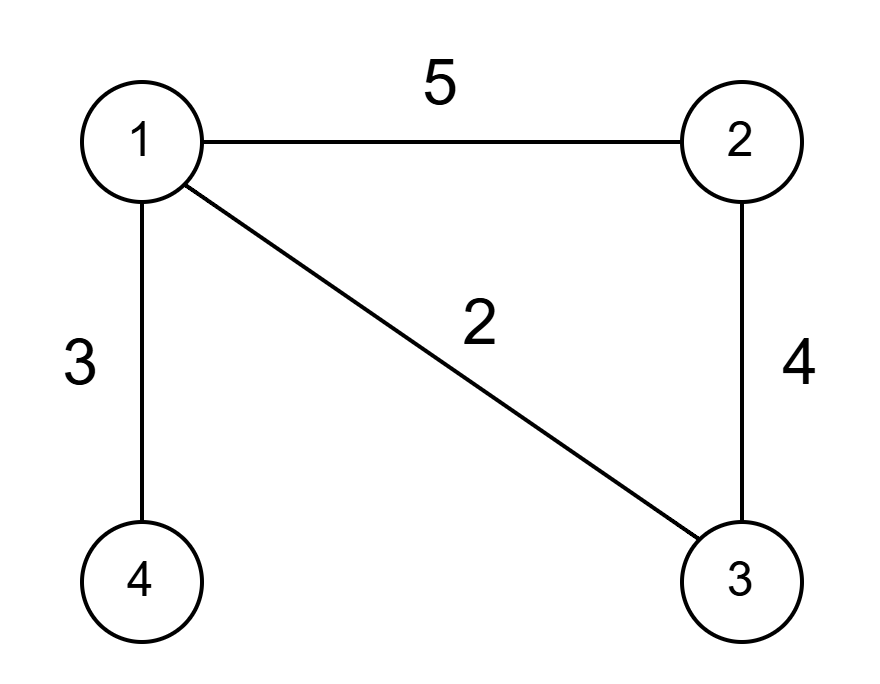
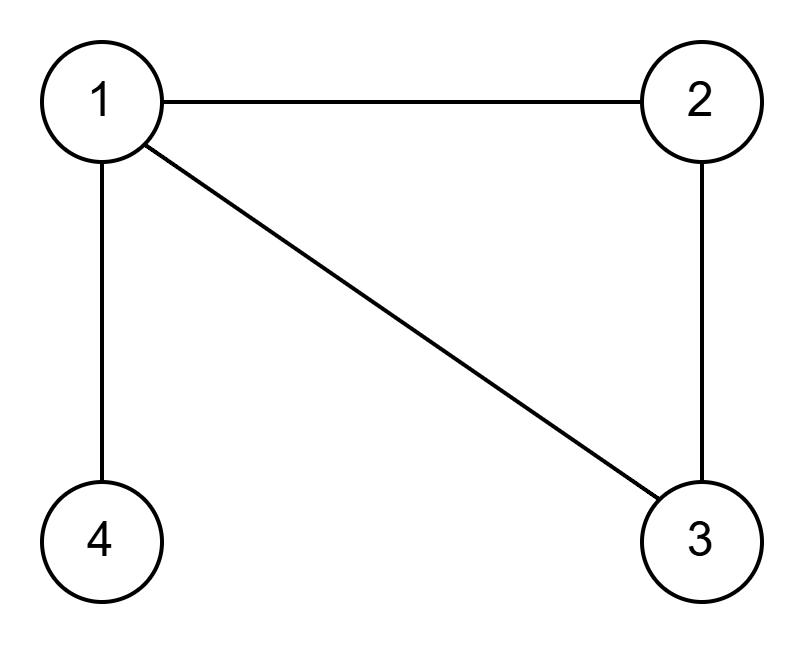
디렉터리 구조 수정 및 DFS BFS 포스팅

Changed region(s): [[0.0311, 0.0617, 0.9639, 0.9568]]

diff --git a/_posts/algorithm/24-12-09-dfs-bfs.md b/_posts/algorithm/24-12-09-dfs-bfs.md
@@ -1,0 +1,331 @@
+---
+title: DFS, BFS
+
+categories:
+  - Algorithm
+
+toc: true
+toc_sticky: true
+published: true
+ 
+date: 2024-12-09
+---
+
+배열이나 [그래프 또는 트리](https://sehako.github.io/data%20structure/graph/)를 탐색하고자 할 때 재귀함수나 큐를 이용한다. 재귀함수를 이용한 탐색 방법을 깊이 우선 탐색(DFS)라고 하고, 큐를 이용한 탐색 방법을 너비 우선 탐색(BFS)라고 한다. 배열과 트리 탐색에 관한 상황에 대해서 DFS와 BFS를 간단하게 구현해보고 차이점을 알아보자.
+
+- N x N구조를 가진 2차원 배열에서 1의 총 개수를 출력
+
+```java
+5
+1 0 1 0 0
+1 1 1 0 0
+0 1 0 0 0
+0 0 0 1 1
+0 0 0 1 0
+```
+
+**입력 코드**
+
+```java
+import java.util.*;
+import java.io.*;
+
+public class Main {
+	static int N, answer;
+	// 배열의 값을 저장할 용도
+	static int[][] arr;
+	// 이미 방문한 곳은 더 이상 방문하지 않기 위해 boolean 배열 사용
+	static boolean[][] check;
+	
+	static int[] dr = {-1, 0, 1, 0};
+	static int[] dc = {0, 1, 0, -1};
+	
+  public static void main(String[] args) throws IOException {
+    BufferedReader br = new BufferedReader(new InputStreamReader(System.in));
+    StringTokenizer st;
+    
+    N = Integer.parseInt(br.readLine());
+    arr = new int[N][N];
+    check = new boolean[N][N];
+
+    for (int i = 0; i < N; i++) {
+    	st = new StringTokenizer(br.readLine(), " ");
+    	for (int j = 0; j < N; j++) {
+    		arr[i][j] = Integer.parseInt(st.nextToken());
+    	}
+    }
+  }
+}
+```
+
+- 트리 탐색
+
+<p align="center">
+  <img src="/assets/images/dfs-bfs-01.png" alt="tree" width="30%" />
+</p>
+
+```java
+7
+6
+1 2
+1 3
+2 4
+2 5
+3 6
+3 7
+```
+
+**입력 코드**
+
+```java
+public class Main {
+	static Node[] tree;
+	
+  public static void main(String[] args) throws IOException {
+    BufferedReader br = new BufferedReader(new InputStreamReader(System.in));
+    StringTokenizer st;
+    
+    int N = Integer.parseInt(br.readLine());
+    int E = Integer.parseInt(br.readLine());
+    
+    tree = new Node[N + 1];
+    for (int i = 0; i < E; i++) {
+    	st = new StringTokenizer(br.readLine(), " ");
+    	int from = Integer.parseInt(st.nextToken());
+    	int to = Integer.parseInt(st.nextToken());
+    	
+    	tree[from] = new Node(to, tree[from]);
+    }
+  }
+}
+
+class Node {
+	int to;
+	Node next;
+	
+	public Node(int to, Node next) {
+		this.to = to;
+		this.next = next;
+	}
+}
+```
+
+# DFS
+
+탐색이 가능한 곳까지 탐색을 하고, 더 이상 탐색이 불가능하면 탐색이 다시 가능한 분기까지 복귀하여 재탐색한다는 것을 의미한다. 따라서 일반적으로 재귀호출을 이용하여 구현을 한다.
+
+### 배열 탐색
+
+입력은 위의 입력 코드를 참고하자. 
+
+```java
+public class Main {
+  public static void main(String[] args) throws IOException 
+      for (int i = 0; i < N; i++) {
+      	for (int j = 0; j < N; j++) {
+      		if (arr[i][j] == 1 && !check[i][j]) {
+      			dfs(new int[] {i, j});
+      		}
+      	}
+      }
+      
+      System.out.println(answer);
+  }
+    
+  static void dfs(int[] pos) {
+  	answer++;
+  	check[pos[0]][pos[1]] = true;
+  	for (int i = 0; i < 4; i++) {
+  		int nr = pos[0] + dr[i];
+  		int nc = pos[0] + dc[i];
+  		
+  		// 범위를 벗어났음을 확인
+  		if (nr < 0 || nc < 0 || nr >= N || nc >= N) continue;
+  		if (check[nr][nc] || arr[nr][nc] != 1) continue;
+  		dfs(new int[] {nr, nc});
+		}
+  }
+}
+```
+
+### 트리 탐색
+
+```java
+public static void main(String[] args) throws IOException {
+	dfs(1);
+}
+static void dfs(int cur) {
+	for (Node node = tree[cur]; node != null; node = node.next) {
+		dfs(node.to);
+	}
+}
+```
+
+**순회 구현**
+
+DFS를 이용하면 순회 구현을 편리하게 할 수 있다. 이때는 연결 리스트 그래프가 아닌 인접 리스트나 인접 행렬을 이용하면 구현하기 쉽다. 코드를 통해 전위순회, 중위순회, 후위순회를 구현해보자.
+
+```java
+public class Main {
+	static List<Integer>[] tree;
+	
+  public static void main(String[] args) throws IOException {
+    BufferedReader br = new BufferedReader(new InputStreamReader(System.in));
+    StringTokenizer st;
+    
+    int N = Integer.parseInt(br.readLine());
+    int E = Integer.parseInt(br.readLine());
+    
+    tree = new List[N + 1];
+    for (int i = 1; i <= N; i++) tree[i] = new ArrayList<>();
+    
+    for (int i = 0; i < E; i++) {
+    	st = new StringTokenizer(br.readLine(), " ");
+    	int from = Integer.parseInt(st.nextToken());
+    	int to = Integer.parseInt(st.nextToken());
+    	
+    	tree[from].add(to);
+    }
+    
+    dfs(1);
+  }
+  
+  static void dfs(int cur) {
+	  // 전위 순회 (현재 노드 방문 → 왼쪽 자식 방문 → 오른쪽 자식 방문)
+  	System.out.print(cur + " ");
+  	for (int next : tree[cur]) {
+  		dfs(next);
+  	}
+  	// 후위 순회 (왼쪽 자식 방문 → 오른쪽 자식 방문 → 현재 노드 방문)
+  	// System.out.print(cur + " ");
+  }
+}
+```
+
+중위 순회는 왼쪽 하위 노드를 방문하고, 현재 노드를 방문한 다음에 오른쪽 하위 노드를 방문해야 하므로 추가적인 코드 작성이 필요하다.
+
+```java
+// 중위 순회 (왼쪽 자식 방문 → 현재 노드 방문 → 오른쪽 자식 방문)
+static void dfs(int cur) {
+  if (cur == 0) return;
+
+  List<Integer> children = tree[cur];
+  int mid = children.size() / 2; // 중간 인덱스 계산
+
+  // 왼쪽 절반의 자식 방문
+  for (int i = 0; i < mid; i++) {
+    dfs(children.get(i));
+  }
+
+  // 현재 노드 방문
+  System.out.print(cur + " ");
+
+  // 오른쪽 절반의 자식 방문
+  for (int i = mid; i < children.size(); i++) {
+    dfs(children.get(i));
+  }
+}
+
+```
+
+# BFS
+
+현재 위치에서 모든 것을 탐색할 수 있는 모든 곳을 탐색해나가며 점점 넓혀가는 방식이다.
+
+### 배열 탐색
+
+```java
+public class Main {
+  public static void main(String[] args) throws IOException 
+      for (int i = 0; i < N; i++) {
+      	for (int j = 0; j < N; j++) {
+      		if (arr[i][j] == 1 && !check[i][j]) {
+      			bfs(new int[] {i, j});
+      		}
+      	}
+      }
+      
+      System.out.println(answer);
+  }
+  static void bfs(int[] pos) {
+  	Queue<int[]> queue = new ArrayDeque<>();
+  	queue.offer(pos);
+  	// 큐에 요소가 없을 때 까지 반복
+  	while (!queue.isEmpty()) {
+  		answer++;
+  		int[] cur = queue.poll();
+  		check[cur[0]][cur[1]] = true;
+  		
+  		for (int i = 0; i < 4; i++) {
+  			int nr = cur[0] + dr[i];
+  			int nc = cur[1] + dc[i];
+  			
+    		if (nr < 0 || nc < 0 || nr >= N || nc >= N) continue;
+    		if (check[nr][nc] || arr[nr][nc] != 1) continue;
+    		queue.offer(new int[] {nr, nc});
+  		}
+  	}
+  }
+}
+```
+
+### 트리 탐색
+
+```java
+public static void main(String[] args) throws IOException {
+	bfs(1);
+}
+static void bfs(int start) {
+	Queue<Integer> queue = new ArrayDeque<>();
+	queue.offer(start);
+	
+	while (!queue.isEmpty()) {
+		int cur = queue.poll();
+		
+		for (Node node = tree[cur]; node != null; node = node.next) {
+			queue.offer(node.to);
+		}
+	}
+}
+```
+
+# DFS vs BFS
+
+그렇다면 DFS와 BFS의 차이는 정확하게 어떤 것이 있을까? 우선 표를 통해 살펴보자.
+
+![ChatGPT](/assets/images/dfs-bfs-02.png)
+
+ChatGPT
+
+탐색 순서 또한 다르다. 아래 트리를 DFS와 BFS로 탐색해보자.
+
+<p align="center">
+  <img src="/assets/images/dfs-bfs-01.png" alt="tree" width="30%" />
+</p>
+
+DFS에서는 탐색이 가능한 노드를 우선적으로 끝까지 탐색한다. 따라서 그래프 또는 트리 구성에 따라서 다르겠지만 왼쪽 하위 노드를 향해 탐색한다고 가정한다면 다음과 같다.
+
+```
+1 → 2 → 4 → 5 → 3 → 6 → 7
+```
+
+BFS에서는 현재 노드에서 탐색이 가능한 모든 노드를 탐색한 후 다음 깊이로 탐색을 이어나간다는 특징이 있다. 따라서 다음과 같은 탐색 순서를 가진다.
+
+```
+1 → 2 → 3 → 4 → 5 → 6 → 7
+```
+
+이때 한 가지 주의해야 할 점은 BFS로는 해결 가능한 문제가 문제의 제한 시간 등의 이유로 DFS로는 해결하지 못하거나 추가적인 처리가 필요한 경우가 존재한다. 가령 다음 입력에서 1의 개수를 출력한다고 가정해보자.
+
+```
+1 0 0
+1 1 1
+0 1 0
+```
+
+이때 `(0, 0)` 에서 DFS로 탐색을 한다고 가정하면 `(2, 1)` 또는 `(1, 2)`를 방문하지 않아 4가 출력될 수 있다. 하지만 BFS로 탐색을 하면 현재 위치 또는 노드에서 자신이 방문할 수 있는 모든 노드를 탐색하므로 그럴 일이 없다. 
+
+---
+
+DFS와 BFS는 그래프 탐색의 기본적인 알고리즘으로, 다양한 심화 알고리즘을 이해하는 데 중요한 기초가 된다. 이 두 알고리즘을 잘 이해하면, 트리나 그래프와 관련된 더 복잡한 문제들을 해결할 때 그 기반을 활용할 수 있다.  
+예를 들어, DFS는 백트래킹이나 최단 경로 탐색 등의 문제에서 자주 사용되고, BFS는 최단 경로 문제(단방향 그래프에서)나 네트워크 흐름 문제 등에서 중요한 역할을 한다. 또한, DFS와 BFS는 알고리즘의 복잡도를 분석하는 데에도 중요한 기초가 되므로 잘 숙지해두면 좋다.

diff --git a/_posts/data_structure/24-12-07-graph.md b/_posts/data_structure/24-12-07-graph.md
@@ -17,16 +17,18 @@ date: 2024-12-07
 
 ![그래프 종류](/assets/images/graph-01.png)
 
-<div class="notice">
-트리역시 그래프의 형태 중 하나로, 순환이 없는 연결 그래프 구조를 띄는 것으로 이해하면 된다. 
-</div>
+**트리 vs 그래프**
+
+트리역시 그래프의 형태 중 하나로, 순환이 없는 연결 그래프 구조를 띄는 것으로 이해하면 된다. 트리와 그래프의 차이를 나타내는 표를 첨부한다.
+
+![그래프와 트리의 차이](/assets/images/graph-02.png)
 
 # 그래프의 표현
 
 그래프 관련 알고리즘 문제에서 일반적으로 그래프의 입력은 정점의 개수와 두 정점의 연결관계를 표현하는 식으로 주어진다. 
 
 <p align="center">
-  <img src="/assets/images/graph-02.png" alt="무방향 그래프" width="30%" />
+  <img src="/assets/images/graph-03.png" alt="무방향 그래프" width="30%" />
 </p>
 
 위 무방향 그래프가 주어졌을 때의 입력은 다음과 같다.
@@ -112,7 +114,7 @@ for (int i = 0; i < N; i++) {
 하지만 만약에 그래프에 가중치가 있는 경우에는 말이 달라진다. 위 그래프에서 가중치를 추가하여 살펴보자
 
 <p align="center">
-  <img src="/assets/images/graph-03.png" alt="방향 그래프" width="30%" />
+  <img src="/assets/images/graph-04.png" alt="방향 그래프" width="30%" />
 </p>
 
 이 경우 입력값은 다음과 같다.
@@ -244,3 +246,4 @@ graph[to] = new Node(from, weight, graph[to]);
 # 참고 자료
 
 ### [Graph Search Algorithms: Developer's Guide](https://memgraph.com/blog/graph-search-algorithms-developers-guide)
+### [[자료구조] 그래프(Graph)란](https://gmlwjd9405.github.io/2018/08/13/data-structure-graph.html)
